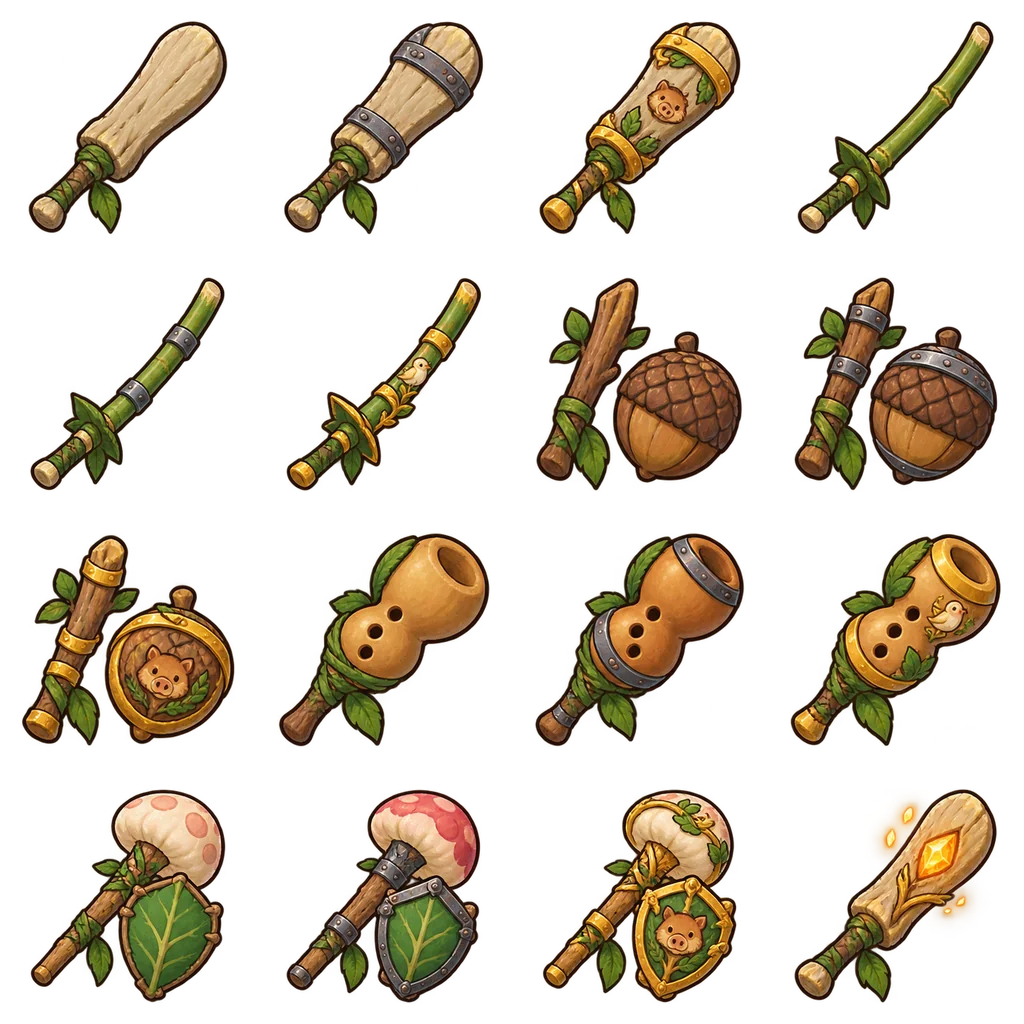
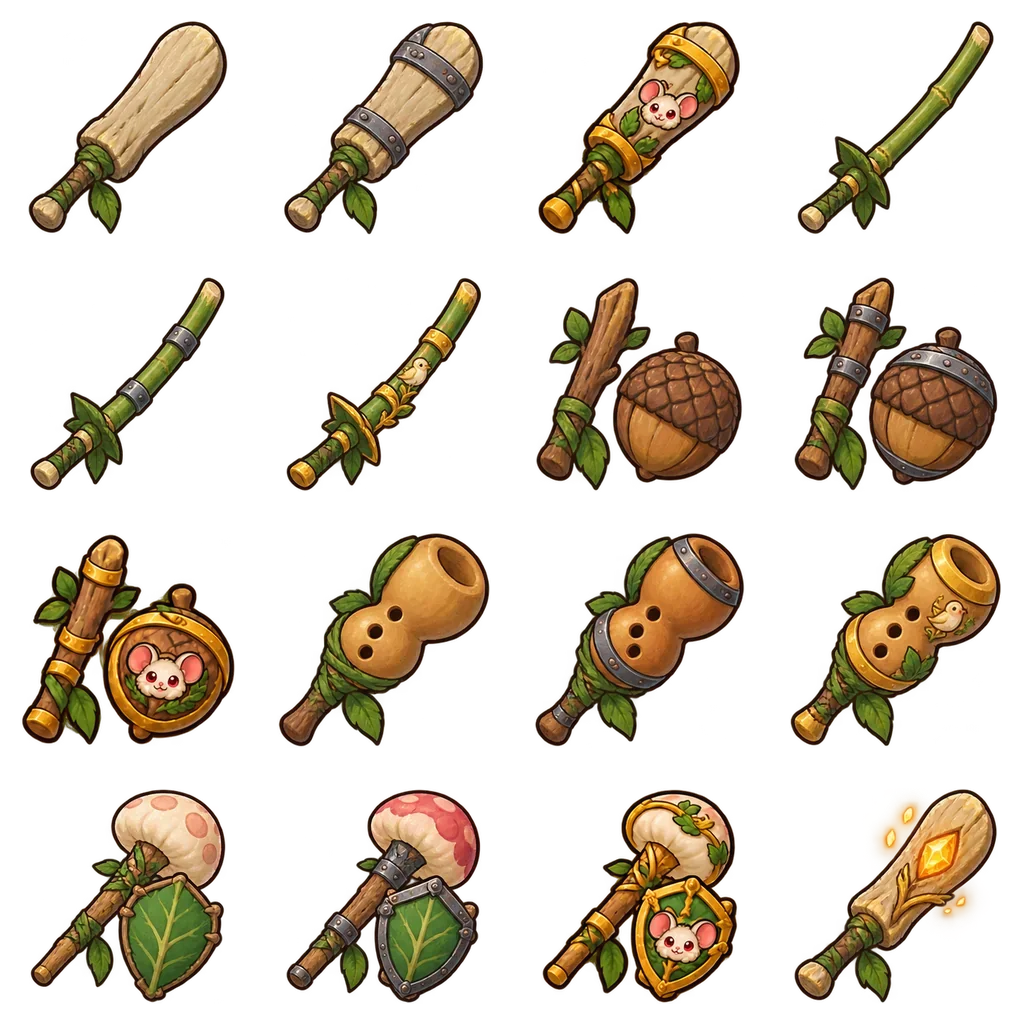
Replace pig emblems with Dora

Changed region(s): [[0.0312, 0.5312, 0.25, 0.7188], [0.5312, 0.75, 0.7188, 0.9688], [0.5312, 0.0, 0.7188, 0.2188]]

diff --git a/docs/grumble-hunt-weapon-icons.md b/docs/grumble-hunt-weapon-icons.md
@@ -2,7 +2,7 @@
 
 Completed 24-10-2026 following `docs/grumble-hunt-prompts/6-weapon-icons.md` from `origin/codex/grumble-hunt-fixes`. Work is on `codex/grumble-hunt-weapon-icons`, continuing its existing cell-map commit `1479f48`.
 
-Created three transparent WebP atlases containing forty weapon icons. Warm hand-painted toon storybook style, botanical toy shapes, rounded ends, three-quarter views, top-left light and dark-brown outlines. Read section 2 of the expansion design and the first art log, and inspected the model screenshots. Nothing is hurt; there is no text, logo or watermark. No existing art or game code was changed.
+Created three transparent WebP atlases containing forty weapon icons. Warm hand-painted toon storybook style, botanical toy shapes, rounded ends, three-quarter views, top-left light and dark-brown outlines. Read section 2 of the expansion design and the first art log, and inspected the model screenshots. Nothing is hurt; there is no text, logo or watermark. The initial pass added new sheets without replacing existing art. The Dora motif revision below updates sheet 3 at the user’s request. No game code was changed.
 
 Artwork generation and revisions used the built-in imagegen tool. Original generated PNGs remain in its output directory. Export used `cwebp -q 85 -m 6 -alpha_q 100 -metadata none`; alpha is retained. The generated 1254 × 1254 sources were downscaled and packed into exact 256 × 256 cells.
 
@@ -12,7 +12,7 @@ Paths are relative to the repository root. Sizes are final encoded bytes.
 
 | File | Decoded size | Bytes | Occupied cells | Generated source size |
 | --- | --- | ---: | ---: | --- |
-| `public/art/hunt/icons-weapons-3.webp` | 1024 × 1024 | 258,784 | 16 | 1254 × 1254 |
+| `public/art/hunt/icons-weapons-3.webp` | 1024 × 1024 | 248,698 | 16 | 1254 × 1254 |
 | `public/art/hunt/icons-weapons-4.webp` | 1024 × 1024 | 248,252 | 16 | 1254 × 1254 |
 | `public/art/hunt/icons-weapons-5.webp` | 1024 × 1024 | 124,248 | 8 | 1254 × 1254 |
 
@@ -145,4 +145,16 @@ Revision:
 
 ```text
 Use case: precise-object-edit. Image is the edit target, a Grumble Hunt transparent weapon atlas. Edit ONLY pointed ends and consistency: row1column1 Glimmer Twig Sword must be a SHORT BLUNT rounded wooden twig club, no jagged fork, spike or blade tip; keep its small round acorn-cap shield and inset amber crystal. Row1column3 Puffcap Lance: remove the pointed gold spike on top of its fat round mushroom cap; keep the wooden shaft, leaf shield and small inset warm crystal. Row1column4 Switch Spade: give its wooden scoop a completely smoothly ROUND end, like a serving spoon, no point. Row2column1 Seedpod Blade: round the end of the seedpod paddle, no sharp point; preserve the shield's THREE visibly stacked round seeds and its small warm crystal. Keep every Glimmer weapon the recognizable same basic shape as its plain version, with small inset warm crystals and soft warm glow. Keep all eight icons in order in the FIRST TWO rows of a4x4 square atlas; bottom TWO rows completely EMPTY transparent. Preserve warm hand-painted toon style, chunky shapes, thick dark-brown outlines, three-quarter angle, top-left light, soft saturated colours. All equipment is harmless botanical toys, no real blades or real guns. No text, logo, watermark, grid lines or background. Final square1024x1024,4x4 invisible256px cells, evenly centered icons with generous padding. Actual transparent alpha.
+```
+
+## Dora motif revision · 24-10-2026
+
+Replaced the three highlighted pig/boar motifs on sheet 3 with matching cream-white Dora chinchilla faces: huge round pink dish ears, ruby eyes, tiny pink noses and w smiles. Locations: row 1, column 3 (final Driftwood Greatsword); row 3, column 1 (final Twig Sword and Acorn Shield); row 4, column 3 (final Puffcap Lance).
+
+Edited with the built-in imagegen tool using the preceding sheet 3 WebP as the edit target. Repacked the three edited sprites into their original atlas cells; copied the other thirteen cells from the preceding sheet unchanged before WebP encoding. Weapon silhouettes, cell order, other decorations and transparent background are retained. Exported at quality 85 with alpha quality 100. Verified 1024 × 1024 RGBA WebP, all sixteen occupied cells, clear cell borders and alpha values from 0 to 255 including soft edges.
+
+Exact edit prompt:
+
+```text
+Use case: precise-object-edit. Edit this existing Grumble Hunt transparent 4x4 weapon atlas. Replace ONLY the three little PIG/BOAR FACE motifs at (row1,column3) on the final Driftwood paddle, (row3,column1) on the round Acorn Shield, and (row4,column3) on the final Puffcap Lance's leaf shield. Use a small chibi Dora chinchilla face motif at ALL THREE locations: cream-white round fluffy cheeks, huge ROUND circular dish ears tilted outward with pink inner ears, glossy ruby-red eyes with two tiny white highlights, tiny pink nose and a little w-shaped smile. The same cute Dora identity in each motif. These must unmistakably be CHINCHILLAS: no pig snout, no nostril discs, no pointed pig ears, no tusks. Render them as little painted/enamel emblems in the existing warm hand-painted toon style, at the same motif size and perspective as the old pig faces; preserve surrounding wood, leaves and golden trim. Keep ALL weapons, all other thirteen icons, all other decorations (including bird motifs), exact 4x4 layout, icon positions, sizes, angle, lighting and dark-brown outlines unchanged. Preserve actual transparent background and original square aspect. Do not add the red highlight boxes, checkerboard, text, labels, logo or watermark. Output the complete atlas.
 ```
